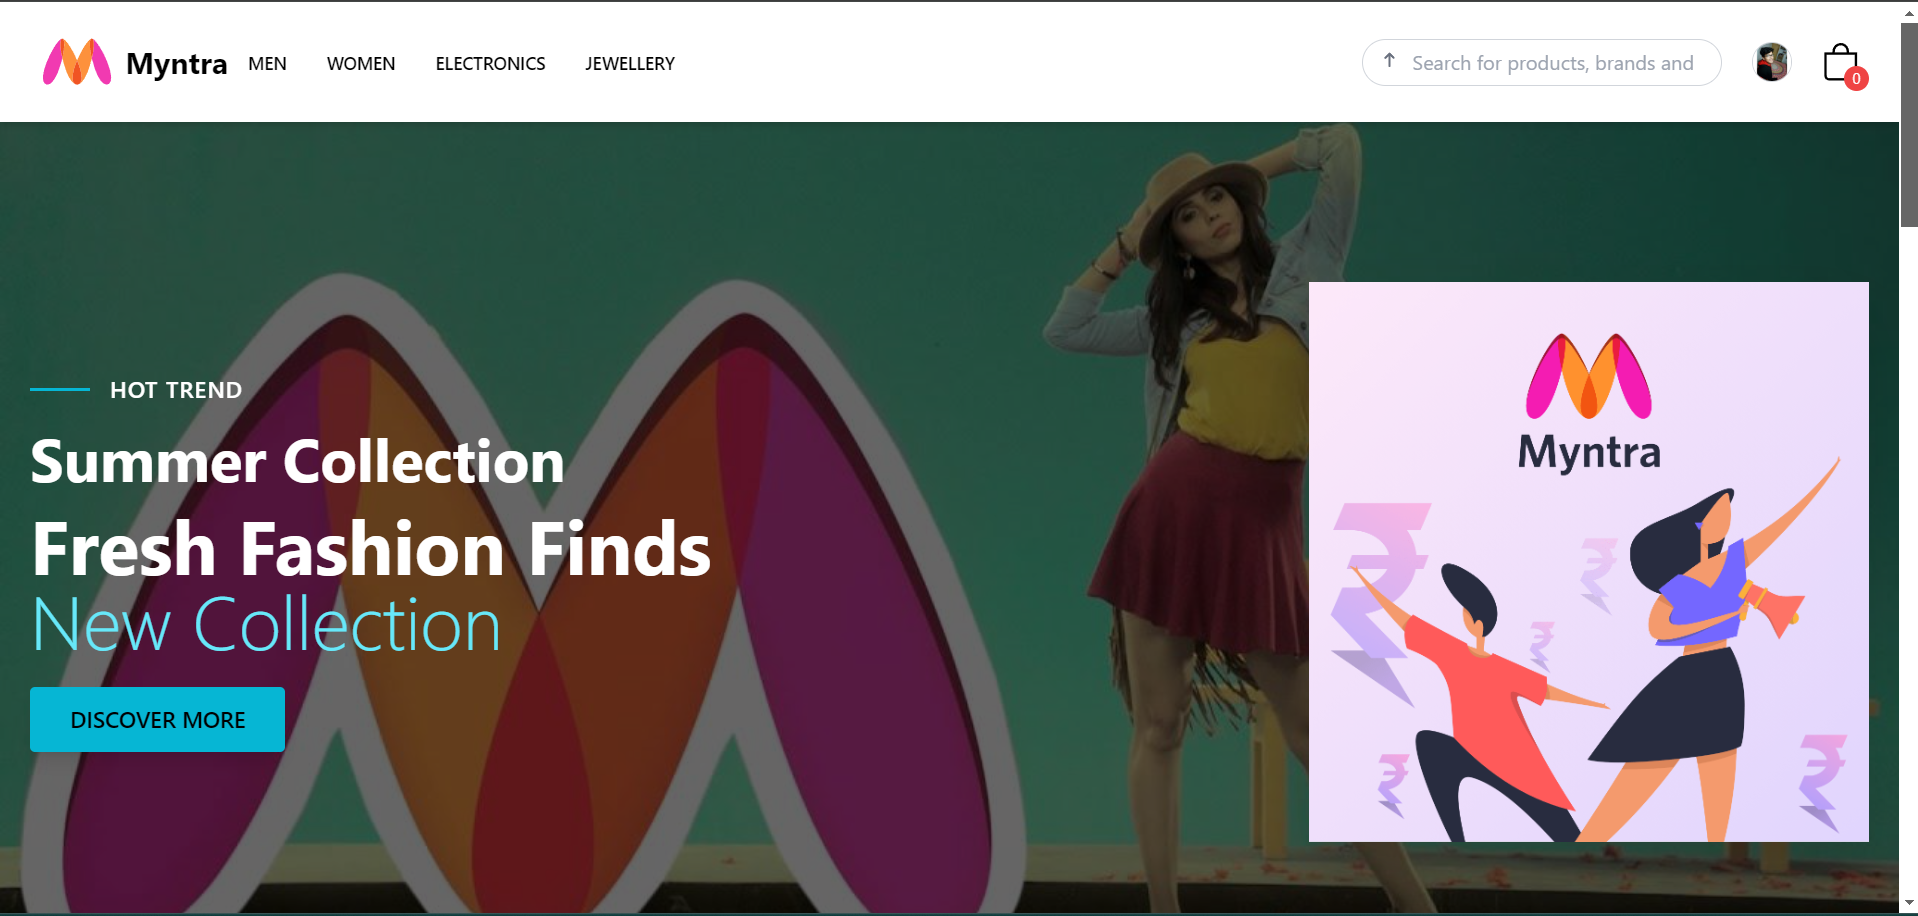
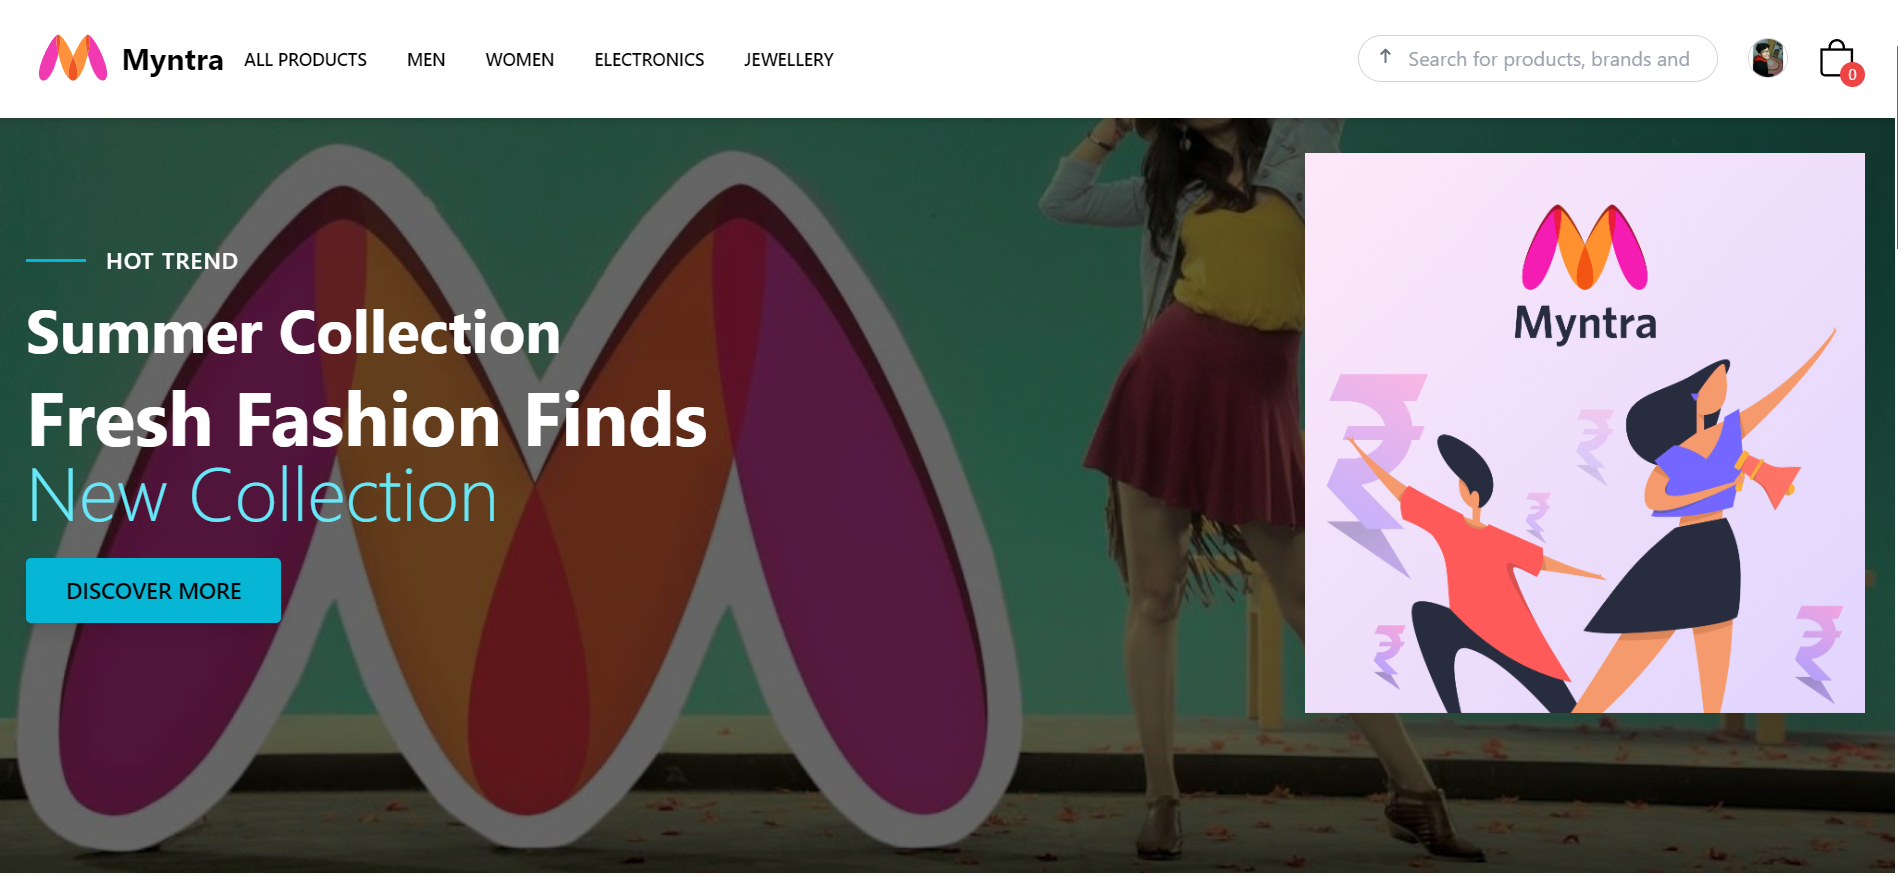
readme

diff --git a/src/pages/Discover.jsx b/src/pages/Discover.jsx
@@ -1,0 +1,44 @@
+import React, { useContext } from 'react';
+import { ProductContext } from '../contexts/ProductContext';
+import Product from '../components/Product';
+import Alert from '../components/Alert';
+
+// eslint-disable-next-line react/prop-types
+const Discover = ({ searchQuery }) => {
+  const { products } = useContext(ProductContext);
+
+  if (!products) {
+    return <p>Loading...</p>;
+  }
+
+  // Normalize search query to lowercase
+  const normalizedSearchQuery = searchQuery ? searchQuery.toLowerCase() : '';
+
+  // Filter products based on search query
+  const filteredProducts = products.filter((item) =>
+    item.title.toLowerCase().includes(normalizedSearchQuery)
+  );
+
+  return (
+    <div className="bg-white">
+      <h1 className="text-3xl mt-20 bg-teal-500 text-white p-4 font-semibold mb-10 text-center">
+        All Products
+      </h1>
+      <section className="py-8">
+        <div className="container mx-auto">
+          <div className="grid grid-cols-1 md:grid-cols-2 lg:grid-cols-3 xl:grid-cols-4 gap-8 max-w-sm mx-auto md:max-w-none md:mx-0">
+            {filteredProducts.length > 0 ? (
+              filteredProducts.map((product) => (
+                <Product product={product} key={product.id} />
+              ))
+            ) : (
+              <p><Alert /></p>
+            )}
+          </div>
+        </div>
+      </section>
+    </div>
+  );
+};
+
+export default Discover;

diff --git a/src/App.jsx b/src/App.jsx
@@ -8,6 +8,7 @@ import Header from "./components/Header";
 import Footer from "./components/Footer";
 import CategoryPage from "./pages/Catogarypage";
 import Profile from "./components/Profile";
+import Discover from "./pages/Discover";
 
 
 const App = () => {
@@ -24,6 +25,7 @@ const App = () => {
           <Route path="/cart" element={<Home searchQuery={searchQuery} />}  ></Route>
           <Route path="/checkout" element={<Home searchQuery={searchQuery} />}  ></Route>
           <Route path="/" element={<Home searchQuery={searchQuery} />}  ></Route>
+          <Route path="/products" element={<Discover searchQuery={searchQuery} />}  ></Route>
           
           <Route path="/profile" element={<Profile/>}  ></Route>
           

diff --git a/src/components/Header.jsx b/src/components/Header.jsx
@@ -77,6 +77,13 @@ const Header = ({ onSearch }) => {
           </div>
         </div>
         <div className="hidden lg:flex flex-grow items-center space-x-8 text-sm font-medium hover:text-gray-900 transition duration-300">
+        <Link
+            to="/products"
+            onClick={() => notify("Explore All")}
+            className="text-sm font-medium text-black hover:text-gray-900 uppercase hover:text-lg transition duration-200"
+          >
+            All Products
+          </Link>
           <Link
             to="/category/men's clothing"
             onClick={() => notify("Explore Men's Clothing!")}

diff --git a/src/components/Hero.jsx b/src/components/Hero.jsx
@@ -22,7 +22,7 @@ const Hero = () => {
             <span className="font-light text-cyan-300">New Collection</span>
           </h1>
           <Link
-            to="/category/men's clothing"
+            to="/products"
             className="inline-block bg-cyan-500 text-black font-semibold text-lg uppercase py-3 px-8 rounded shadow-lg hover:bg-cyan-600 transition duration-300"
           >
             Discover More

diff --git a/src/components/Footer.jsx b/src/components/Footer.jsx
@@ -49,7 +49,8 @@ const Footer = () => {
       </form>
     </div>
     <div className="text-center mt-6">
-      <p>© 2024 Myntra. All rights reserved. | Developed by Shubham Ashish</p>
+      <p>© 2024 Myntra. All rights reserved. |</p>
+      <span className="text-lg font-bold text-red-600"> Developed by Shubham Ashish</span>
     </div>
   </footer>
   

diff --git a/README.md b/README.md
@@ -2,6 +2,8 @@
 
 This project is a clone of the popular Indian fashion e-commerce website Myntra, built using React, Vite, Tailwind CSS, and several other modern web development technologies. This clone aims to replicate the core features and design of Myntra while incorporating additional enhancements and learning experiences for modern React development.
 
+This project is an API-based project, using Axios for making API requests and Zustand for state management.
+
 ## Testing
 This project has been tested using [Playwright](https://playwright.dev/). To test this project yourself, you can install Playwright using one of the following methods:
 
